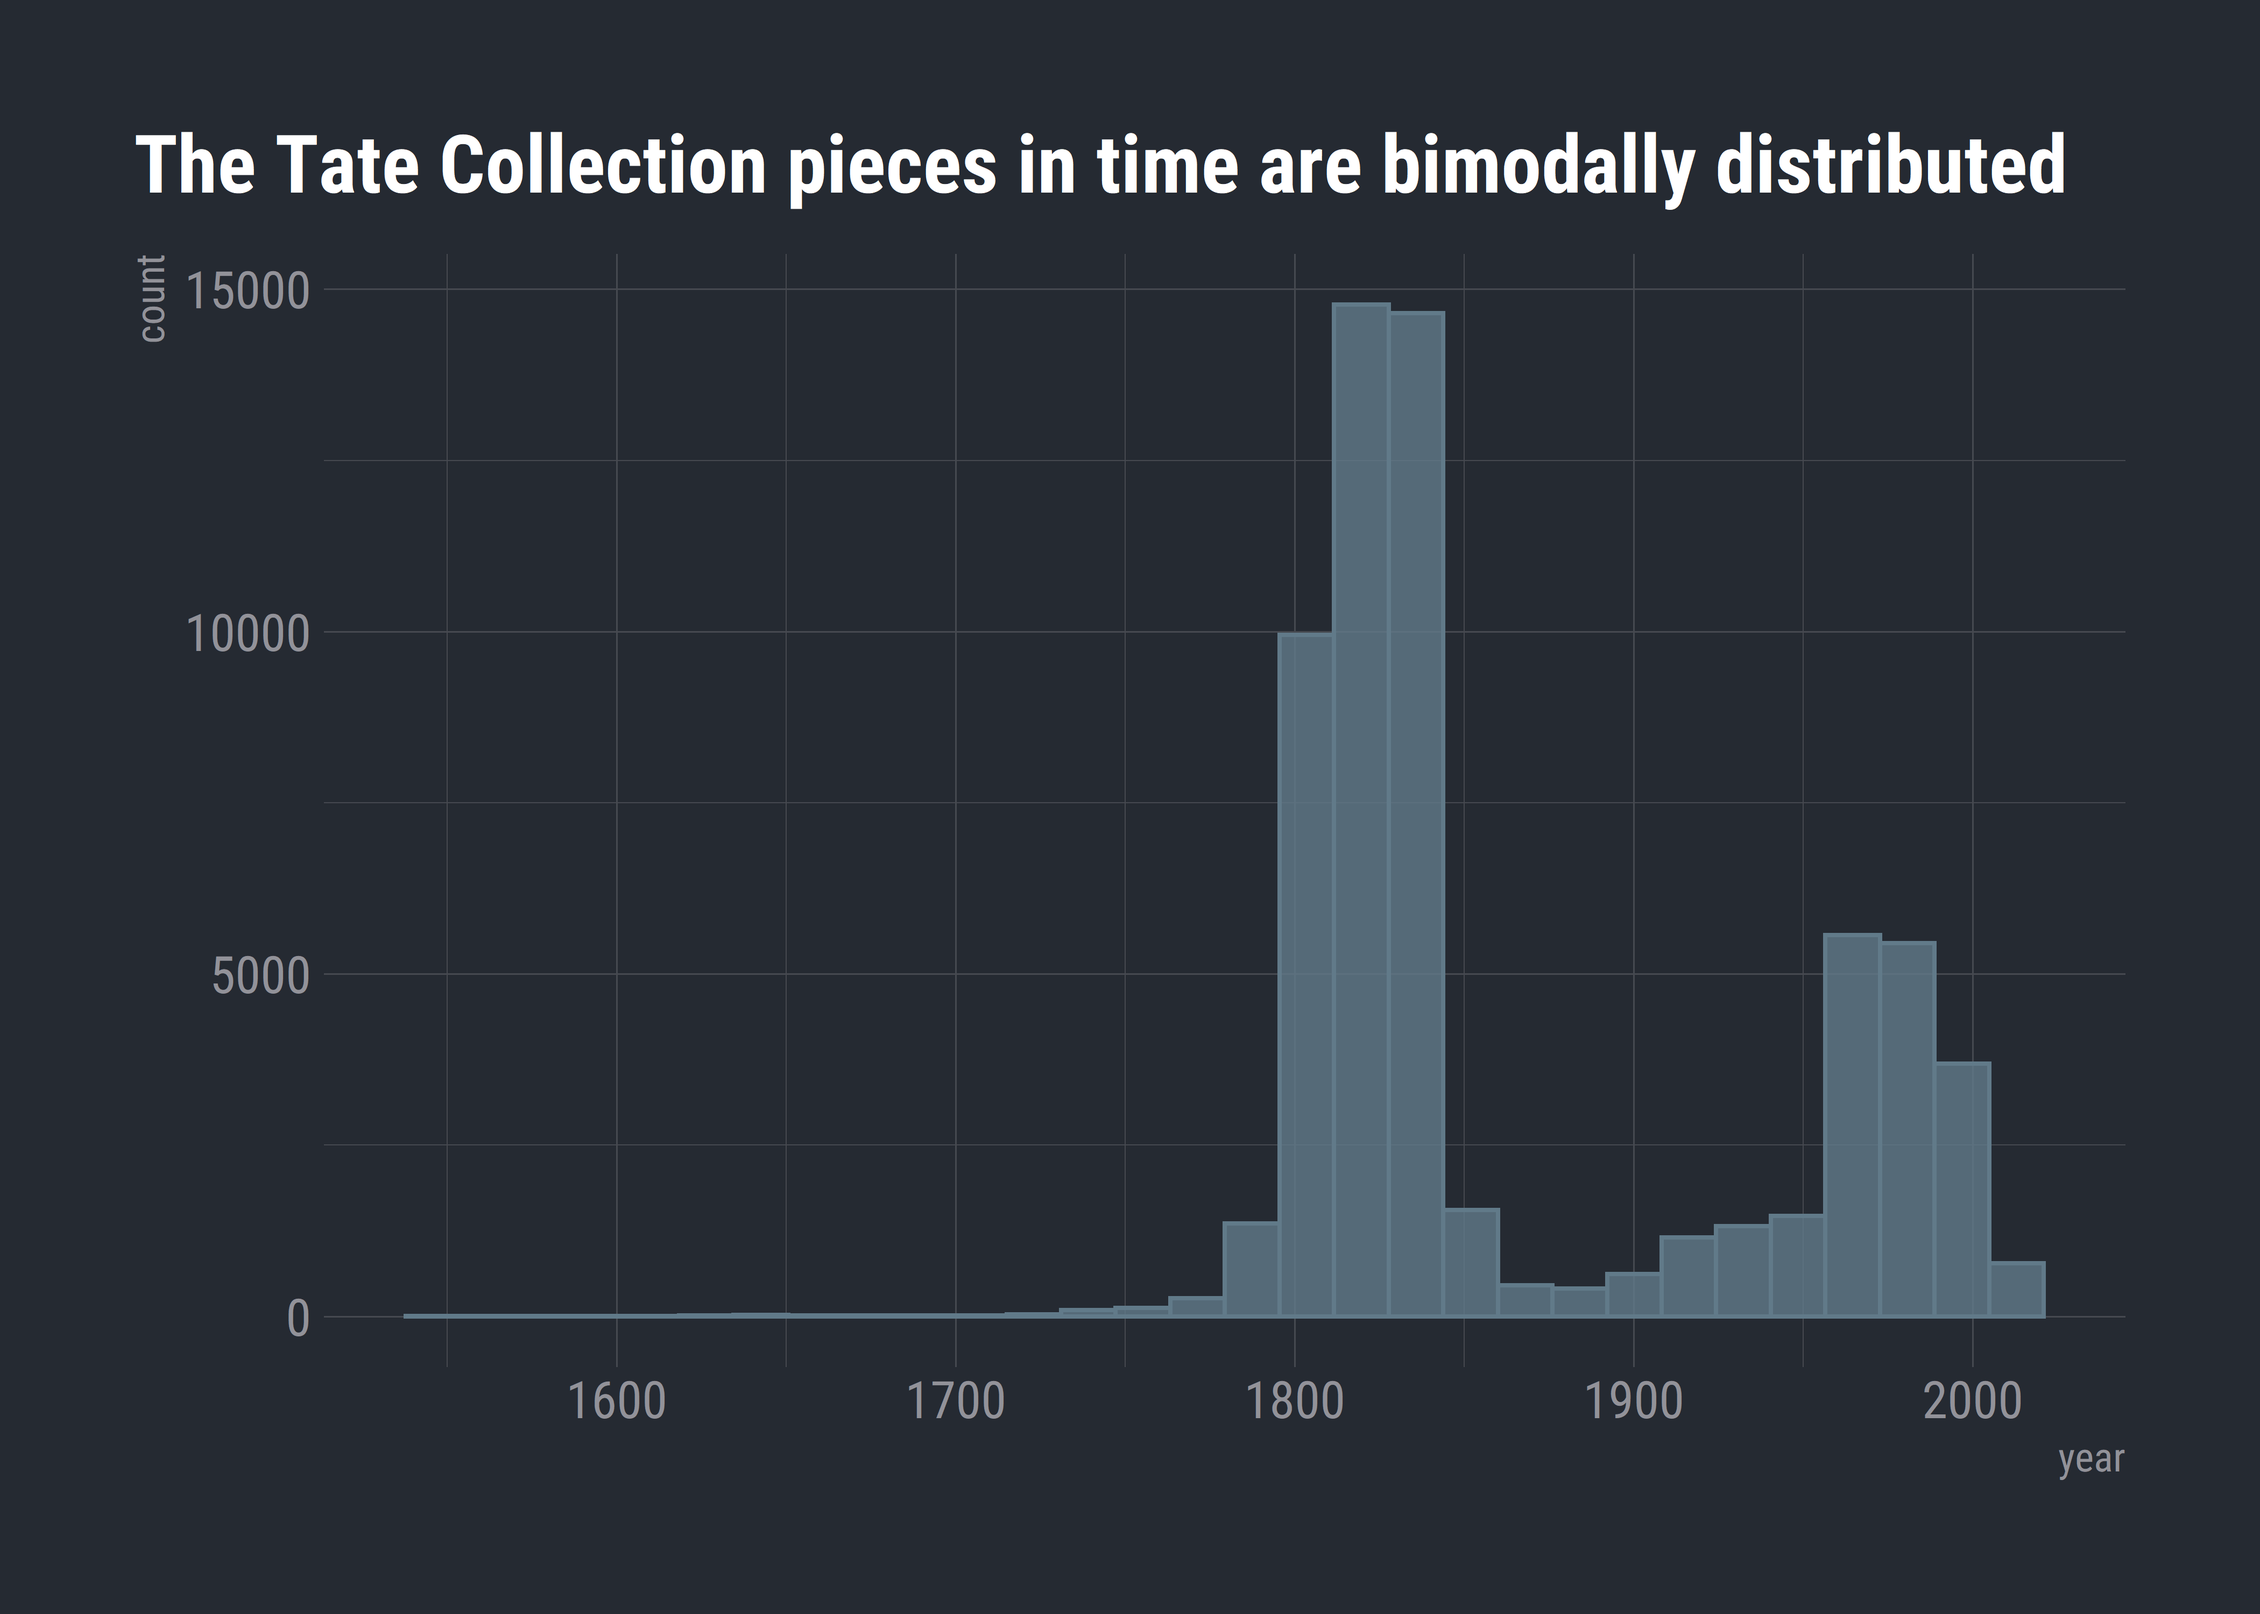
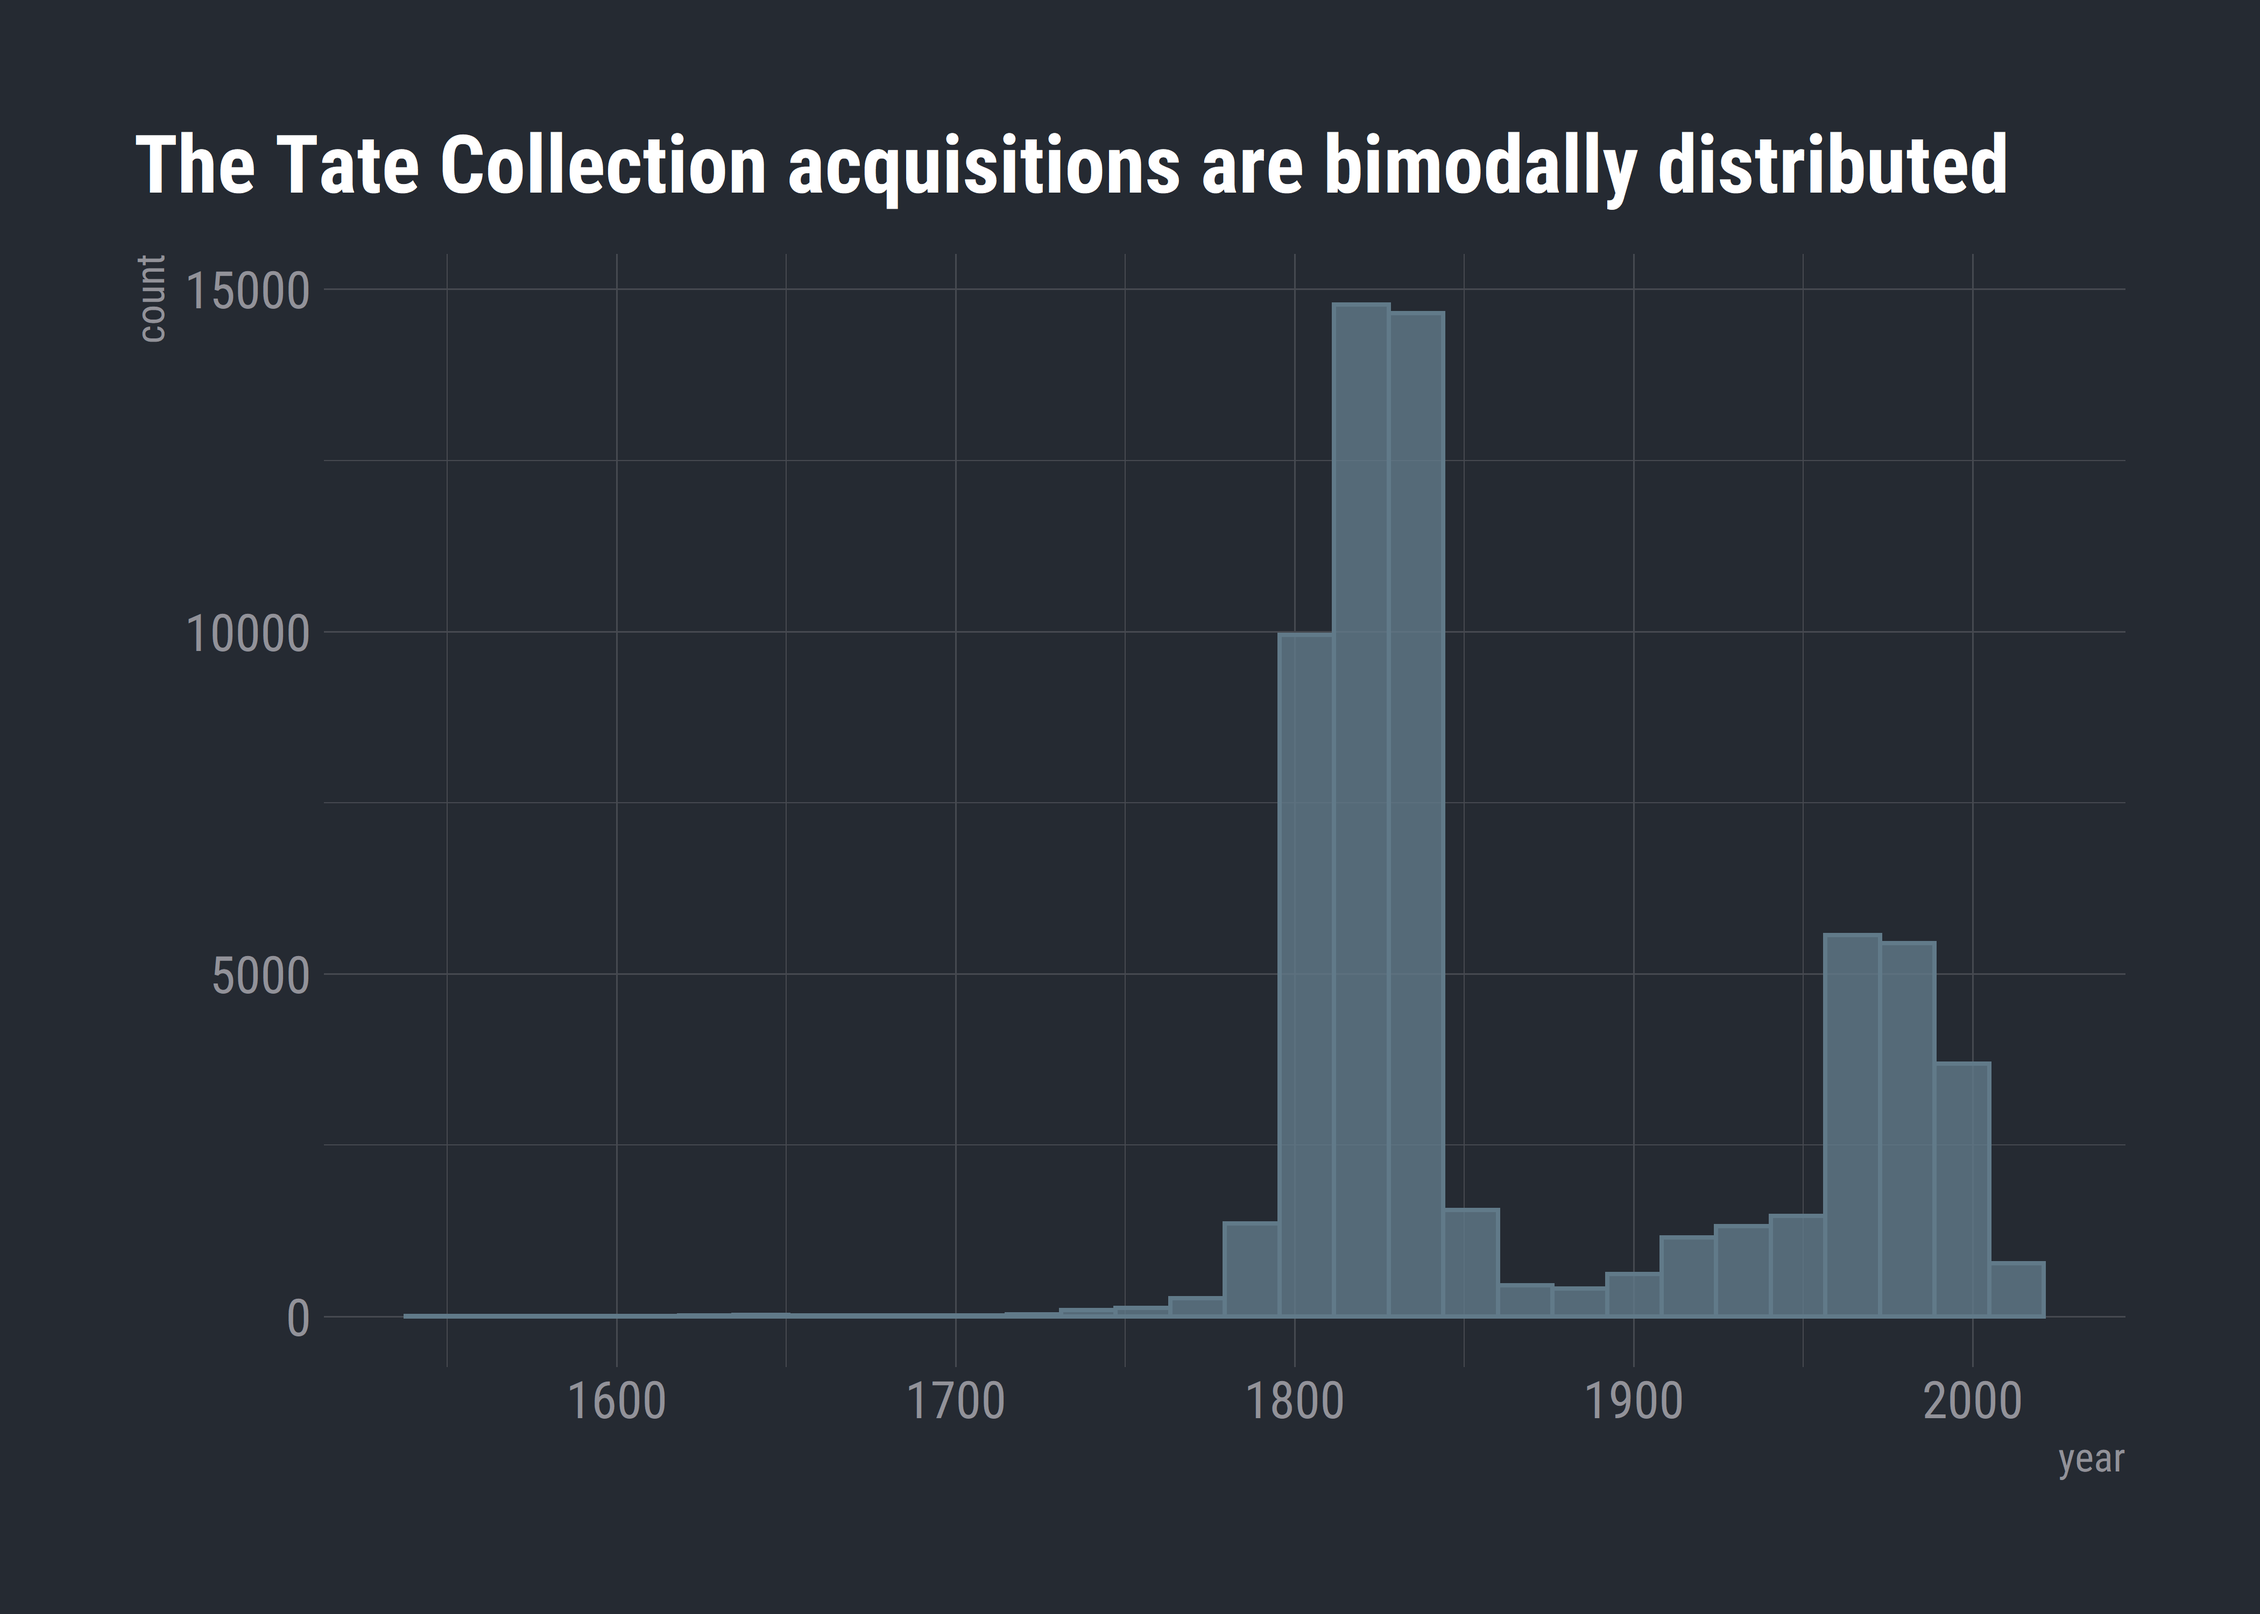
Build site.

Changed region(s): [[0.3431, 0.062, 0.9357, 0.124]]

diff --git a/docs/2021_01_12_tidy_tuesday.html b/docs/2021_01_12_tidy_tuesday.html
@@ -414,16 +414,16 @@ This reproducible <a href="http://rmarkdown.rstudio.com">R Markdown</a> analysis
 <div class="panel panel-default">
 <div class="panel-heading">
 <p class="panel-title">
-<a data-toggle="collapse" data-parent="#workflowr-checks" href="#strongRepositoryversionstrongahrefhttpsgithubcomopus1993myTidyTuesdaytree81d98f5938ac1fcfafb2826f14616fde5cb528c1targetblank81d98f5a"> <span class="glyphicon glyphicon-ok text-success" aria-hidden="true"></span> <strong>Repository version:</strong> <a href="https://github.com/opus1993/myTidyTuesday/tree/81d98f5938ac1fcfafb2826f14616fde5cb528c1" target="_blank">81d98f5</a> </a>
+<a data-toggle="collapse" data-parent="#workflowr-checks" href="#strongRepositoryversionstrongahrefhttpsgithubcomopus1993myTidyTuesdaytree390f451eb7762f54d655d5f8202b97839c899c9ftargetblank390f451a"> <span class="glyphicon glyphicon-ok text-success" aria-hidden="true"></span> <strong>Repository version:</strong> <a href="https://github.com/opus1993/myTidyTuesday/tree/390f451eb7762f54d655d5f8202b97839c899c9f" target="_blank">390f451</a> </a>
 </p>
 </div>
[2 lines of base64/hex data omitted]
 <div class="panel-body">
 <p>
 Great! You are using Git for version control. Tracking code development and connecting the code version to the results is critical for reproducibility.
 </p>
 <p>
-The results in this page were generated with repository version <a href="https://github.com/opus1993/myTidyTuesday/tree/81d98f5938ac1fcfafb2826f14616fde5cb528c1" target="_blank">81d98f5</a>. See the <em>Past versions</em> tab to see a history of the changes made to the R Markdown and HTML files.
+The results in this page were generated with repository version <a href="https://github.com/opus1993/myTidyTuesday/tree/390f451eb7762f54d655d5f8202b97839c899c9f" target="_blank">390f451</a>. See the <em>Past versions</em> tab to see a history of the changes made to the R Markdown and HTML files.
 </p>
 <p>
 Note that you need to be careful to ensure that all relevant files for the analysis have been committed to Git prior to generating the results (you can use <code>wflow_publish</code> or <code>wflow_git_commit</code>). workflowr only checks the R Markdown file, but you know if there are other scripts or data files that it depends on. Below is the status of the Git repository when the results were generated:
@@ -477,6 +477,40 @@ Message
 </tr>
 </thead>
 <tbody>
+<tr>
+<td>
+Rmd
+</td>
+<td>
+<a href="https://github.com/opus1993/myTidyTuesday/blob/390f451eb7762f54d655d5f8202b97839c899c9f/analysis/2021_01_12_tidy_tuesday.Rmd" target="_blank">390f451</a>
+</td>
+<td>
+opus1993
+</td>
+<td>
+2021-01-15
+</td>
+<td>
+wflow_publish(“analysis/2021_01_12_tidy_tuesday.Rmd”)
+</td>
+</tr>
+<tr>
+<td>
+html
+</td>
+<td>
+<a href="https://rawcdn.githack.com/opus1993/myTidyTuesday/7a624b13655aa0f5b8e95264acfbd79f200ede5d/docs/2021_01_12_tidy_tuesday.html" target="_blank">7a624b1</a>
+</td>
+<td>
+opus1993
+</td>
+<td>
+2021-01-15
+</td>
+<td>
+Build site.
+</td>
+</tr>
 <tr>
 <td>
 Rmd
@@ -763,7 +797,7 @@ wflow_publish(“analysis/2021_01_12_tidy_tuesday.Rmd”)
 <pre class="r"><code>art %&gt;%
   ggplot(aes(year)) +
   geom_histogram(alpha = 0.8) +
-  labs(title = &quot;The Tate Collection pieces in time are bimodally distributed&quot;)</code></pre>
+  labs(title = &quot;The Tate Collection acquisitions are bimodally distributed&quot;)</code></pre>
 <p><img src="figure/2021_01_12_tidy_tuesday.Rmd/unnamed-chunk-1-1.png" width="2100" style="display: block; margin: auto;" /></p>
 <p>A treemap of Artists</p>
 <pre class="r"><code>art %&gt;%
@@ -796,7 +830,6 @@ wflow_publish(“analysis/2021_01_12_tidy_tuesday.Rmd”)
 </div>
 <div id="a-machine-learning-model" class="section level1">
 <h1>A machine learning model</h1>
-<p>Exploring art media over time in the #TidyTuesday Tate collection dataset</p>
 <p>Let’s focus on just a couple of variables for modeling, and at least focus on just the art created after 1750.</p>
 <pre class="r"><code>tate_df &lt;- art %&gt;%
   filter(year &gt; 1750) %&gt;%
@@ -858,7 +891,7 @@ Term frequency-inverse document frequency with medium</code></pre>
 <li><p>First, we must tell the <code>recipe()</code> what our model is going to be (using a formula here) and what data we are using.</p></li>
 <li><p>Next, we tokenize our text, with the default tokenization into single words.</p></li>
 <li><p>Next, we remove stop words (just the default set, to remove “on” and “and”).</p></li>
-<li><p>Next, we stem words to a similar base word. In this case, I am going to leave stemming out, as the medium works are mostly technical materials.</p></li>
+<li><p>Next, we stem words to a similar base word. In this case, I am going to leave stemming out, as the medium words are mostly technical materials.</p></li>
 <li><p>Next, we form ngram combinations back. In this case, “acrylic paint paper” results in features for <em>acrylic</em>, <em>paint</em>, <em>paper</em>, <em>acrylic paint</em>, <em>paint paper</em>, <em>acrylic paper</em>, and <em>arylic paint paper</em>.</p></li>
 <li><p>It wouldn’t be practical to keep all the tokens from this whole dataset in our model, so we can filter down to only keep, in this case, the top 700 most-used tokens (after removing stop words).</p></li>
 <li><p>We need to decide on some kind of weighting for these tokens next, either something like term frequency or, what we used here, tf-idf.</p></li>
@@ -928,7 +961,7 @@ lasso_rs</code></pre>
 <p>Now we can do what we really came here for, which is to talk about how we can evaluate a model like this and see if it was a good idea. How do the results look?</p>
 <pre class="r"><code>autoplot(lasso_rs)</code></pre>
 <p><img src="figure/2021_01_12_tidy_tuesday.Rmd/unnamed-chunk-10-1.png" width="2100" style="display: block; margin: auto;" /></p>
-<p>The best $ (R^2) $ is around 0.80, and is a measure of how well the model fits the training data. The best RMSE is around 31.5 or so, and is on the scale of the original outcome, i.e. years. What are some of the best penalty values, in terms of RMSE?</p>
+<p>The best $ R^2 $ is around 0.80, and is a measure of how well the model fits the training data. The best RMSE is around 31.5 or so, and is on the scale of the original outcome, i.e. years. What are some of the best penalty values, in terms of RMSE?</p>
 <pre class="r"><code>show_best(lasso_rs, &quot;rmse&quot;)</code></pre>
 <pre><code># A tibble: 5 x 7
   penalty .metric .estimator  mean     n std_err .config              
@@ -984,7 +1017,7 @@ collect_metrics(art_final)</code></pre>
     Variable = str_remove(Variable, &quot;tfidf_medium_&quot;),
     Importance = abs(Importance),
     Variable = fct_reorder(Variable, Importance),
-    Sign = if_else(Sign == &quot;POS&quot;, &quot;More in later art&quot;, &quot;More in earlier art&quot;)
+    Sign = if_else(Sign == &quot;POS&quot;, &quot;in later art&quot;, &quot;in earlier art&quot;)
   ) %&gt;%
   ggplot(aes(Importance, Variable, fill = Sign)) +
   geom_col(show.legend = FALSE) +
